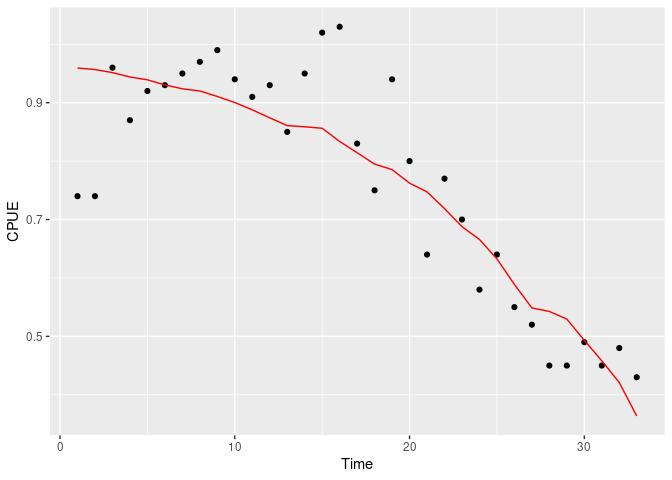
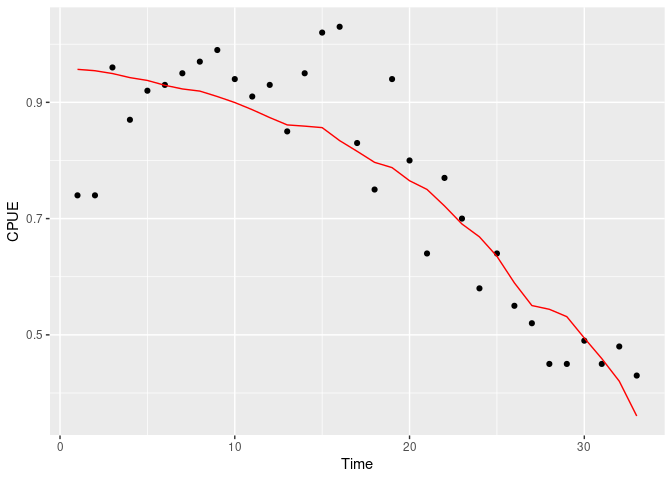
update all

diff --git a/README.md b/README.md
@@ -33,118 +33,129 @@ delury <- csdm::delury_lobster
 
 2.  Let’s run the model.
 
-<!-- -->
-
-    #> 
-    #> SAMPLING FOR MODEL 'nonlinear_cpue_grouped' NOW (CHAIN 1).
-    #> Chain 1: 
-    #> Chain 1: Gradient evaluation took 0.00066 seconds
-    #> Chain 1: 1000 transitions using 10 leapfrog steps per transition would take 6.6 seconds.
-    #> Chain 1: Adjust your expectations accordingly!
-    #> Chain 1: 
-    #> Chain 1: 
-    #> Chain 1: Iteration:   1 / 1000 [  0%]  (Warmup)
-    #> Chain 1: Iteration: 100 / 1000 [ 10%]  (Warmup)
-    #> Chain 1: Iteration: 200 / 1000 [ 20%]  (Warmup)
-    #> Chain 1: Iteration: 300 / 1000 [ 30%]  (Warmup)
-    #> Chain 1: Iteration: 400 / 1000 [ 40%]  (Warmup)
-    #> Chain 1: Iteration: 500 / 1000 [ 50%]  (Warmup)
-    #> Chain 1: Iteration: 501 / 1000 [ 50%]  (Sampling)
-    #> Chain 1: Iteration: 600 / 1000 [ 60%]  (Sampling)
-    #> Chain 1: Iteration: 700 / 1000 [ 70%]  (Sampling)
-    #> Chain 1: Iteration: 800 / 1000 [ 80%]  (Sampling)
-    #> Chain 1: Iteration: 900 / 1000 [ 90%]  (Sampling)
-    #> Chain 1: Iteration: 1000 / 1000 [100%]  (Sampling)
-    #> Chain 1: 
-    #> Chain 1:  Elapsed Time: 18.1055 seconds (Warm-up)
-    #> Chain 1:                9.91925 seconds (Sampling)
-    #> Chain 1:                28.0247 seconds (Total)
-    #> Chain 1: 
-    #> 
-    #> SAMPLING FOR MODEL 'nonlinear_cpue_grouped' NOW (CHAIN 2).
-    #> Chain 2: 
-    #> Chain 2: Gradient evaluation took 0.000511 seconds
-    #> Chain 2: 1000 transitions using 10 leapfrog steps per transition would take 5.11 seconds.
-    #> Chain 2: Adjust your expectations accordingly!
-    #> Chain 2: 
-    #> Chain 2: 
-    #> Chain 2: Iteration:   1 / 1000 [  0%]  (Warmup)
-    #> Chain 2: Iteration: 100 / 1000 [ 10%]  (Warmup)
-    #> Chain 2: Iteration: 200 / 1000 [ 20%]  (Warmup)
-    #> Chain 2: Iteration: 300 / 1000 [ 30%]  (Warmup)
-    #> Chain 2: Iteration: 400 / 1000 [ 40%]  (Warmup)
-    #> Chain 2: Iteration: 500 / 1000 [ 50%]  (Warmup)
-    #> Chain 2: Iteration: 501 / 1000 [ 50%]  (Sampling)
-    #> Chain 2: Iteration: 600 / 1000 [ 60%]  (Sampling)
-    #> Chain 2: Iteration: 700 / 1000 [ 70%]  (Sampling)
-    #> Chain 2: Iteration: 800 / 1000 [ 80%]  (Sampling)
-    #> Chain 2: Iteration: 900 / 1000 [ 90%]  (Sampling)
-    #> Chain 2: Iteration: 1000 / 1000 [100%]  (Sampling)
-    #> Chain 2: 
-    #> Chain 2:  Elapsed Time: 15.7834 seconds (Warm-up)
-    #> Chain 2:                8.61804 seconds (Sampling)
-    #> Chain 2:                24.4014 seconds (Total)
-    #> Chain 2: 
-    #> 
-    #> SAMPLING FOR MODEL 'nonlinear_cpue_grouped' NOW (CHAIN 3).
-    #> Chain 3: 
-    #> Chain 3: Gradient evaluation took 0.000551 seconds
-    #> Chain 3: 1000 transitions using 10 leapfrog steps per transition would take 5.51 seconds.
-    #> Chain 3: Adjust your expectations accordingly!
-    #> Chain 3: 
-    #> Chain 3: 
-    #> Chain 3: Iteration:   1 / 1000 [  0%]  (Warmup)
-    #> Chain 3: Iteration: 100 / 1000 [ 10%]  (Warmup)
-    #> Chain 3: Iteration: 200 / 1000 [ 20%]  (Warmup)
-    #> Chain 3: Iteration: 300 / 1000 [ 30%]  (Warmup)
-    #> Chain 3: Iteration: 400 / 1000 [ 40%]  (Warmup)
-    #> Chain 3: Iteration: 500 / 1000 [ 50%]  (Warmup)
-    #> Chain 3: Iteration: 501 / 1000 [ 50%]  (Sampling)
-    #> Chain 3: Iteration: 600 / 1000 [ 60%]  (Sampling)
-    #> Chain 3: Iteration: 700 / 1000 [ 70%]  (Sampling)
-    #> Chain 3: Iteration: 800 / 1000 [ 80%]  (Sampling)
-    #> Chain 3: Iteration: 900 / 1000 [ 90%]  (Sampling)
-    #> Chain 3: Iteration: 1000 / 1000 [100%]  (Sampling)
-    #> Chain 3: 
-    #> Chain 3:  Elapsed Time: 16.5726 seconds (Warm-up)
-    #> Chain 3:                8.80197 seconds (Sampling)
-    #> Chain 3:                25.3745 seconds (Total)
-    #> Chain 3: 
-    #> 
-    #> SAMPLING FOR MODEL 'nonlinear_cpue_grouped' NOW (CHAIN 4).
-    #> Chain 4: 
-    #> Chain 4: Gradient evaluation took 0.000605 seconds
-    #> Chain 4: 1000 transitions using 10 leapfrog steps per transition would take 6.05 seconds.
-    #> Chain 4: Adjust your expectations accordingly!
-    #> Chain 4: 
-    #> Chain 4: 
-    #> Chain 4: Iteration:   1 / 1000 [  0%]  (Warmup)
-    #> Chain 4: Iteration: 100 / 1000 [ 10%]  (Warmup)
-    #> Chain 4: Iteration: 200 / 1000 [ 20%]  (Warmup)
-    #> Chain 4: Iteration: 300 / 1000 [ 30%]  (Warmup)
-    #> Chain 4: Iteration: 400 / 1000 [ 40%]  (Warmup)
-    #> Chain 4: Iteration: 500 / 1000 [ 50%]  (Warmup)
-    #> Chain 4: Iteration: 501 / 1000 [ 50%]  (Sampling)
-    #> Chain 4: Iteration: 600 / 1000 [ 60%]  (Sampling)
-    #> Chain 4: Iteration: 700 / 1000 [ 70%]  (Sampling)
-    #> Chain 4: Iteration: 800 / 1000 [ 80%]  (Sampling)
-    #> Chain 4: Iteration: 900 / 1000 [ 90%]  (Sampling)
-    #> Chain 4: Iteration: 1000 / 1000 [100%]  (Sampling)
-    #> Chain 4: 
-    #> Chain 4:  Elapsed Time: 20.029 seconds (Warm-up)
-    #> Chain 4:                9.09481 seconds (Sampling)
-    #> Chain 4:                29.1238 seconds (Total)
-    #> Chain 4:
-    #> Warning: There were 138 divergent transitions after warmup. See
-    #> http://mc-stan.org/misc/warnings.html#divergent-transitions-after-warmup
-    #> to find out why this is a problem and how to eliminate them.
-    #> Warning: Examine the pairs() plot to diagnose sampling problems
-    #> Warning: Bulk Effective Samples Size (ESS) is too low, indicating posterior means and medians may be unreliable.
-    #> Running the chains for more iterations may help. See
-    #> http://mc-stan.org/misc/warnings.html#bulk-ess
-    #> Warning: Tail Effective Samples Size (ESS) is too low, indicating posterior variances and tail quantiles may be unreliable.
-    #> Running the chains for more iterations may help. See
-    #> http://mc-stan.org/misc/warnings.html#tail-ess
+``` r
+delury_model <- csdm(catch = cpue,
+                     effort = traps,
+                     biomass = ~1,
+                     q = ~1,
+                     s = ~1,
+                     data = delury,
+                     prior = list(B0_logmean_prior_sd = log(1000),
+                                  B0_group_prior_logsd = log(100)),
+                     upper =  c(B0 = 1e10, q = 1e-3, s = 100),
+                     chains = 4,
+                     iter = 1000)
+#> 
+#> SAMPLING FOR MODEL 'nonlinear_cpue_grouped' NOW (CHAIN 1).
+#> Chain 1: 
+#> Chain 1: Gradient evaluation took 0.000571 seconds
+#> Chain 1: 1000 transitions using 10 leapfrog steps per transition would take 5.71 seconds.
+#> Chain 1: Adjust your expectations accordingly!
+#> Chain 1: 
+#> Chain 1: 
+#> Chain 1: Iteration:   1 / 1000 [  0%]  (Warmup)
+#> Chain 1: Iteration: 100 / 1000 [ 10%]  (Warmup)
+#> Chain 1: Iteration: 200 / 1000 [ 20%]  (Warmup)
+#> Chain 1: Iteration: 300 / 1000 [ 30%]  (Warmup)
+#> Chain 1: Iteration: 400 / 1000 [ 40%]  (Warmup)
+#> Chain 1: Iteration: 500 / 1000 [ 50%]  (Warmup)
+#> Chain 1: Iteration: 501 / 1000 [ 50%]  (Sampling)
+#> Chain 1: Iteration: 600 / 1000 [ 60%]  (Sampling)
+#> Chain 1: Iteration: 700 / 1000 [ 70%]  (Sampling)
+#> Chain 1: Iteration: 800 / 1000 [ 80%]  (Sampling)
+#> Chain 1: Iteration: 900 / 1000 [ 90%]  (Sampling)
+#> Chain 1: Iteration: 1000 / 1000 [100%]  (Sampling)
+#> Chain 1: 
+#> Chain 1:  Elapsed Time: 15.1841 seconds (Warm-up)
+#> Chain 1:                6.70903 seconds (Sampling)
+#> Chain 1:                21.8931 seconds (Total)
+#> Chain 1: 
+#> 
+#> SAMPLING FOR MODEL 'nonlinear_cpue_grouped' NOW (CHAIN 2).
+#> Chain 2: 
+#> Chain 2: Gradient evaluation took 0.000497 seconds
+#> Chain 2: 1000 transitions using 10 leapfrog steps per transition would take 4.97 seconds.
+#> Chain 2: Adjust your expectations accordingly!
+#> Chain 2: 
+#> Chain 2: 
+#> Chain 2: Iteration:   1 / 1000 [  0%]  (Warmup)
+#> Chain 2: Iteration: 100 / 1000 [ 10%]  (Warmup)
+#> Chain 2: Iteration: 200 / 1000 [ 20%]  (Warmup)
+#> Chain 2: Iteration: 300 / 1000 [ 30%]  (Warmup)
+#> Chain 2: Iteration: 400 / 1000 [ 40%]  (Warmup)
+#> Chain 2: Iteration: 500 / 1000 [ 50%]  (Warmup)
+#> Chain 2: Iteration: 501 / 1000 [ 50%]  (Sampling)
+#> Chain 2: Iteration: 600 / 1000 [ 60%]  (Sampling)
+#> Chain 2: Iteration: 700 / 1000 [ 70%]  (Sampling)
+#> Chain 2: Iteration: 800 / 1000 [ 80%]  (Sampling)
+#> Chain 2: Iteration: 900 / 1000 [ 90%]  (Sampling)
+#> Chain 2: Iteration: 1000 / 1000 [100%]  (Sampling)
+#> Chain 2: 
+#> Chain 2:  Elapsed Time: 14.0855 seconds (Warm-up)
+#> Chain 2:                6.95937 seconds (Sampling)
+#> Chain 2:                21.0449 seconds (Total)
+#> Chain 2: 
+#> 
+#> SAMPLING FOR MODEL 'nonlinear_cpue_grouped' NOW (CHAIN 3).
+#> Chain 3: 
+#> Chain 3: Gradient evaluation took 0.000546 seconds
+#> Chain 3: 1000 transitions using 10 leapfrog steps per transition would take 5.46 seconds.
+#> Chain 3: Adjust your expectations accordingly!
+#> Chain 3: 
+#> Chain 3: 
+#> Chain 3: Iteration:   1 / 1000 [  0%]  (Warmup)
+#> Chain 3: Iteration: 100 / 1000 [ 10%]  (Warmup)
+#> Chain 3: Iteration: 200 / 1000 [ 20%]  (Warmup)
+#> Chain 3: Iteration: 300 / 1000 [ 30%]  (Warmup)
+#> Chain 3: Iteration: 400 / 1000 [ 40%]  (Warmup)
+#> Chain 3: Iteration: 500 / 1000 [ 50%]  (Warmup)
+#> Chain 3: Iteration: 501 / 1000 [ 50%]  (Sampling)
+#> Chain 3: Iteration: 600 / 1000 [ 60%]  (Sampling)
+#> Chain 3: Iteration: 700 / 1000 [ 70%]  (Sampling)
+#> Chain 3: Iteration: 800 / 1000 [ 80%]  (Sampling)
+#> Chain 3: Iteration: 900 / 1000 [ 90%]  (Sampling)
+#> Chain 3: Iteration: 1000 / 1000 [100%]  (Sampling)
+#> Chain 3: 
+#> Chain 3:  Elapsed Time: 14.7914 seconds (Warm-up)
+#> Chain 3:                7.58095 seconds (Sampling)
+#> Chain 3:                22.3723 seconds (Total)
+#> Chain 3: 
+#> 
+#> SAMPLING FOR MODEL 'nonlinear_cpue_grouped' NOW (CHAIN 4).
+#> Chain 4: 
+#> Chain 4: Gradient evaluation took 0.000522 seconds
+#> Chain 4: 1000 transitions using 10 leapfrog steps per transition would take 5.22 seconds.
+#> Chain 4: Adjust your expectations accordingly!
+#> Chain 4: 
+#> Chain 4: 
+#> Chain 4: Iteration:   1 / 1000 [  0%]  (Warmup)
+#> Chain 4: Iteration: 100 / 1000 [ 10%]  (Warmup)
+#> Chain 4: Iteration: 200 / 1000 [ 20%]  (Warmup)
+#> Chain 4: Iteration: 300 / 1000 [ 30%]  (Warmup)
+#> Chain 4: Iteration: 400 / 1000 [ 40%]  (Warmup)
+#> Chain 4: Iteration: 500 / 1000 [ 50%]  (Warmup)
+#> Chain 4: Iteration: 501 / 1000 [ 50%]  (Sampling)
+#> Chain 4: Iteration: 600 / 1000 [ 60%]  (Sampling)
+#> Chain 4: Iteration: 700 / 1000 [ 70%]  (Sampling)
+#> Chain 4: Iteration: 800 / 1000 [ 80%]  (Sampling)
+#> Chain 4: Iteration: 900 / 1000 [ 90%]  (Sampling)
+#> Chain 4: Iteration: 1000 / 1000 [100%]  (Sampling)
+#> Chain 4: 
+#> Chain 4:  Elapsed Time: 12.9401 seconds (Warm-up)
+#> Chain 4:                5.63011 seconds (Sampling)
+#> Chain 4:                18.5702 seconds (Total)
+#> Chain 4:
+#> Warning: There were 139 divergent transitions after warmup. See
+#> http://mc-stan.org/misc/warnings.html#divergent-transitions-after-warmup
+#> to find out why this is a problem and how to eliminate them.
+#> Warning: Examine the pairs() plot to diagnose sampling problems
+#> Warning: Bulk Effective Samples Size (ESS) is too low, indicating posterior means and medians may be unreliable.
+#> Running the chains for more iterations may help. See
+#> http://mc-stan.org/misc/warnings.html#bulk-ess
+#> Warning: Tail Effective Samples Size (ESS) is too low, indicating posterior variances and tail quantiles may be unreliable.
+#> Running the chains for more iterations may help. See
+#> http://mc-stan.org/misc/warnings.html#tail-ess
+```
 
 3.  You can extract the fit for cpue, as well as the biomass estimate.
 
@@ -153,16 +164,16 @@ get_cpue_fit(delury_model)
 #> # A tibble: 33 × 14
 #>        t cpue_fit .lower .upper .width .point .interval  date catch_pounds traps
 #>    <int>    <dbl>  <dbl>  <dbl>  <dbl> <chr>  <chr>     <int>        <int> <int>
-#>  1     1    0.959  0.916  1.02    0.95 median qi            2          147   200
-#>  2     2    0.957  0.914  1.02    0.95 median qi            3         2796  3780
-#>  3     3    0.952  0.908  1.01    0.95 median qi            4         6888  7174
-#>  4     4    0.944  0.902  0.996   0.95 median qi            5         7723  8850
-#>  5     5    0.939  0.899  0.989   0.95 median qi            8         5330  5793
-#>  6     6    0.930  0.892  0.977   0.95 median qi            9         8839  9504
-#>  7     7    0.924  0.886  0.968   0.95 median qi           10         6324  6655
-#>  8     8    0.920  0.883  0.963   0.95 median qi           11         3569  3685
-#>  9     9    0.911  0.874  0.950   0.95 median qi           12         8120  8202
-#> 10    10    0.900  0.864  0.937   0.95 median qi           13         8084  8585
+#>  1     1    0.957  0.912  1.01    0.95 median qi            2          147   200
+#>  2     2    0.954  0.910  1.01    0.95 median qi            3         2796  3780
+#>  3     3    0.950  0.906  1.00    0.95 median qi            4         6888  7174
+#>  4     4    0.943  0.901  0.992   0.95 median qi            5         7723  8850
+#>  5     5    0.938  0.896  0.985   0.95 median qi            8         5330  5793
+#>  6     6    0.929  0.890  0.973   0.95 median qi            9         8839  9504
+#>  7     7    0.923  0.884  0.964   0.95 median qi           10         6324  6655
+#>  8     8    0.919  0.881  0.959   0.95 median qi           11         3569  3685
+#>  9     9    0.910  0.874  0.948   0.95 median qi           12         8120  8202
+#> 10    10    0.900  0.864  0.936   0.95 median qi           13         8084  8585
 #> # … with 23 more rows, and 4 more variables: cpue <dbl>, traps_cum <int>,
 #> #   cpue_l <dbl>, cpue_l10 <dbl>
 ```
@@ -172,16 +183,16 @@ get_biomass(delury_model)
 #> # A tibble: 33 × 13
 #>    biomass  .lower .upper .width .point .interval  date catch_pounds traps  cpue
 #>      <dbl>   <dbl>  <dbl>  <dbl> <chr>  <chr>     <int>        <int> <int> <dbl>
-#>  1 173340. 165295. 2.00e5   0.95 median qi            2          147   200  0.74
-#>  2 173192. 165147. 2.00e5   0.95 median qi            3         2796  3780  0.74
-#>  3 170395. 162349. 1.97e5   0.95 median qi            4         6888  7174  0.96
-#>  4 163508. 155462. 1.90e5   0.95 median qi            5         7723  8850  0.87
-#>  5 155808. 147763. 1.82e5   0.95 median qi            8         5330  5793  0.92
-#>  6 150478. 142433. 1.77e5   0.95 median qi            9         8839  9504  0.93
-#>  7 141640. 133595. 1.68e5   0.95 median qi           10         6324  6655  0.95
-#>  8 135318. 127272. 1.62e5   0.95 median qi           11         3569  3685  0.97
-#>  9 131743. 123698. 1.58e5   0.95 median qi           12         8120  8202  0.99
-#> 10 123623. 115578. 1.50e5   0.95 median qi           13         8084  8585  0.94
+#>  1 172646. 165021. 1.89e5   0.95 median qi            2          147   200  0.74
+#>  2 172498. 164873. 1.89e5   0.95 median qi            3         2796  3780  0.74
+#>  3 169701. 162076. 1.86e5   0.95 median qi            4         6888  7174  0.96
+#>  4 162814. 155189. 1.80e5   0.95 median qi            5         7723  8850  0.87
+#>  5 155115. 147489. 1.72e5   0.95 median qi            8         5330  5793  0.92
+#>  6 149785. 142160. 1.67e5   0.95 median qi            9         8839  9504  0.93
+#>  7 140946. 133321. 1.58e5   0.95 median qi           10         6324  6655  0.95
+#>  8 134624. 126999. 1.51e5   0.95 median qi           11         3569  3685  0.97
+#>  9 131050. 123425. 1.48e5   0.95 median qi           12         8120  8202  0.99
+#> 10 122930. 115305. 1.40e5   0.95 median qi           13         8084  8585  0.94
 #> # … with 23 more rows, and 3 more variables: traps_cum <int>, cpue_l <dbl>,
 #> #   cpue_l10 <dbl>
 ```
